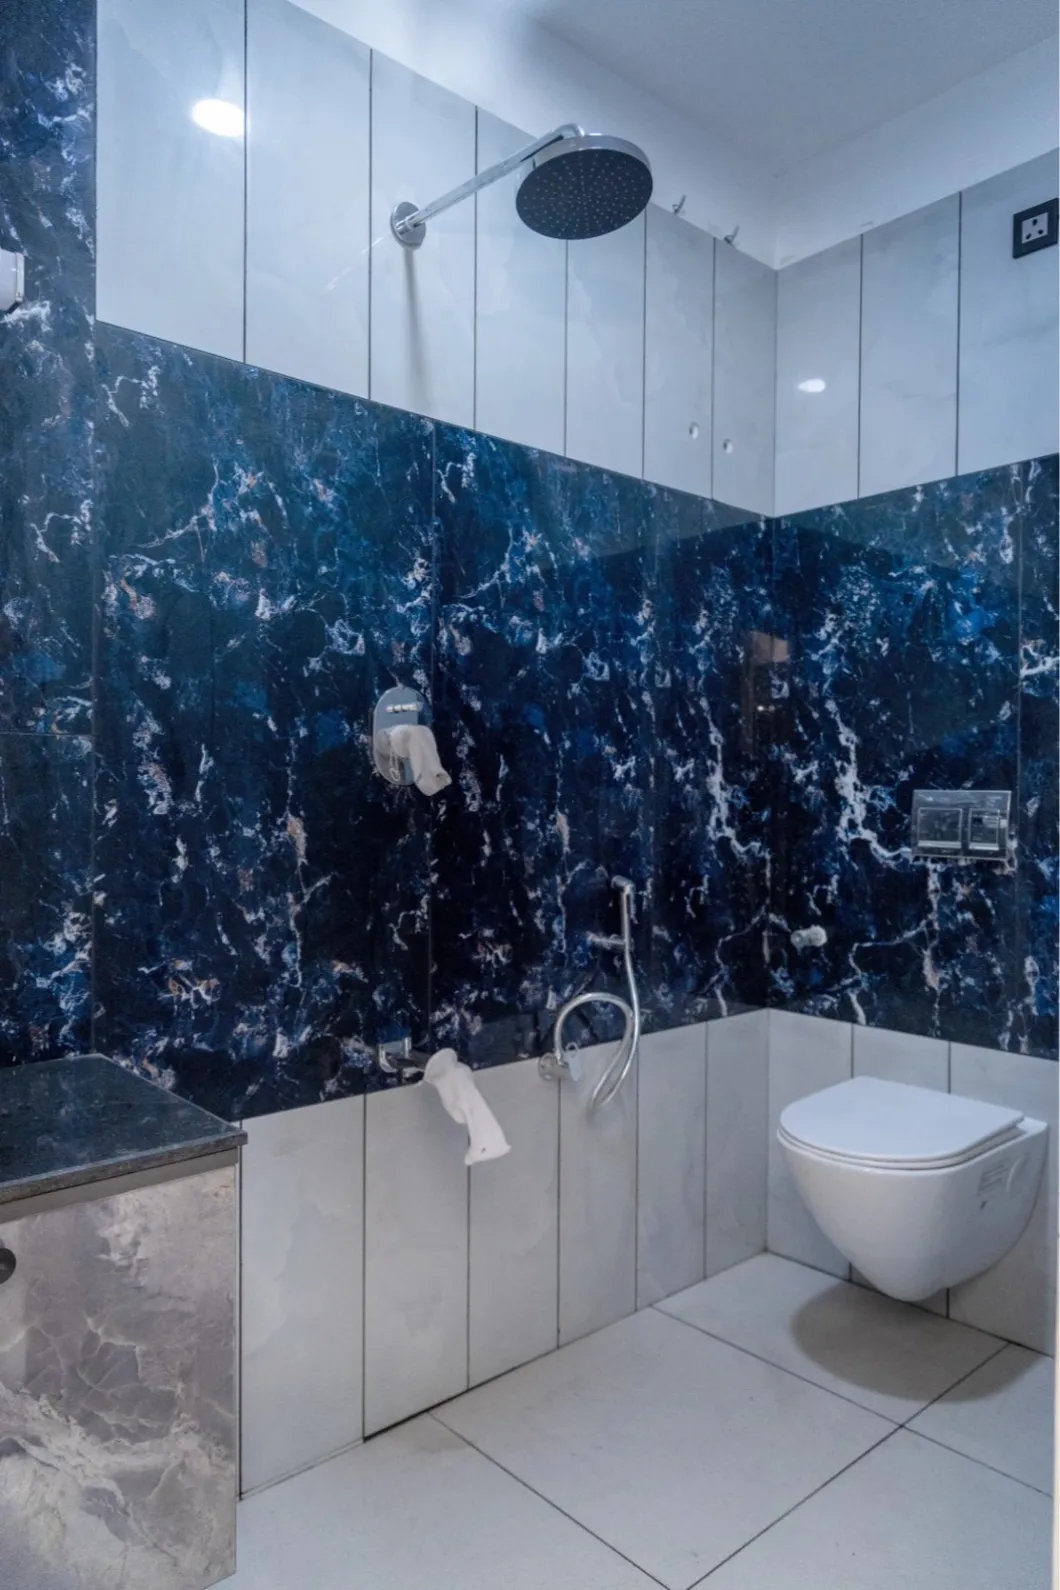
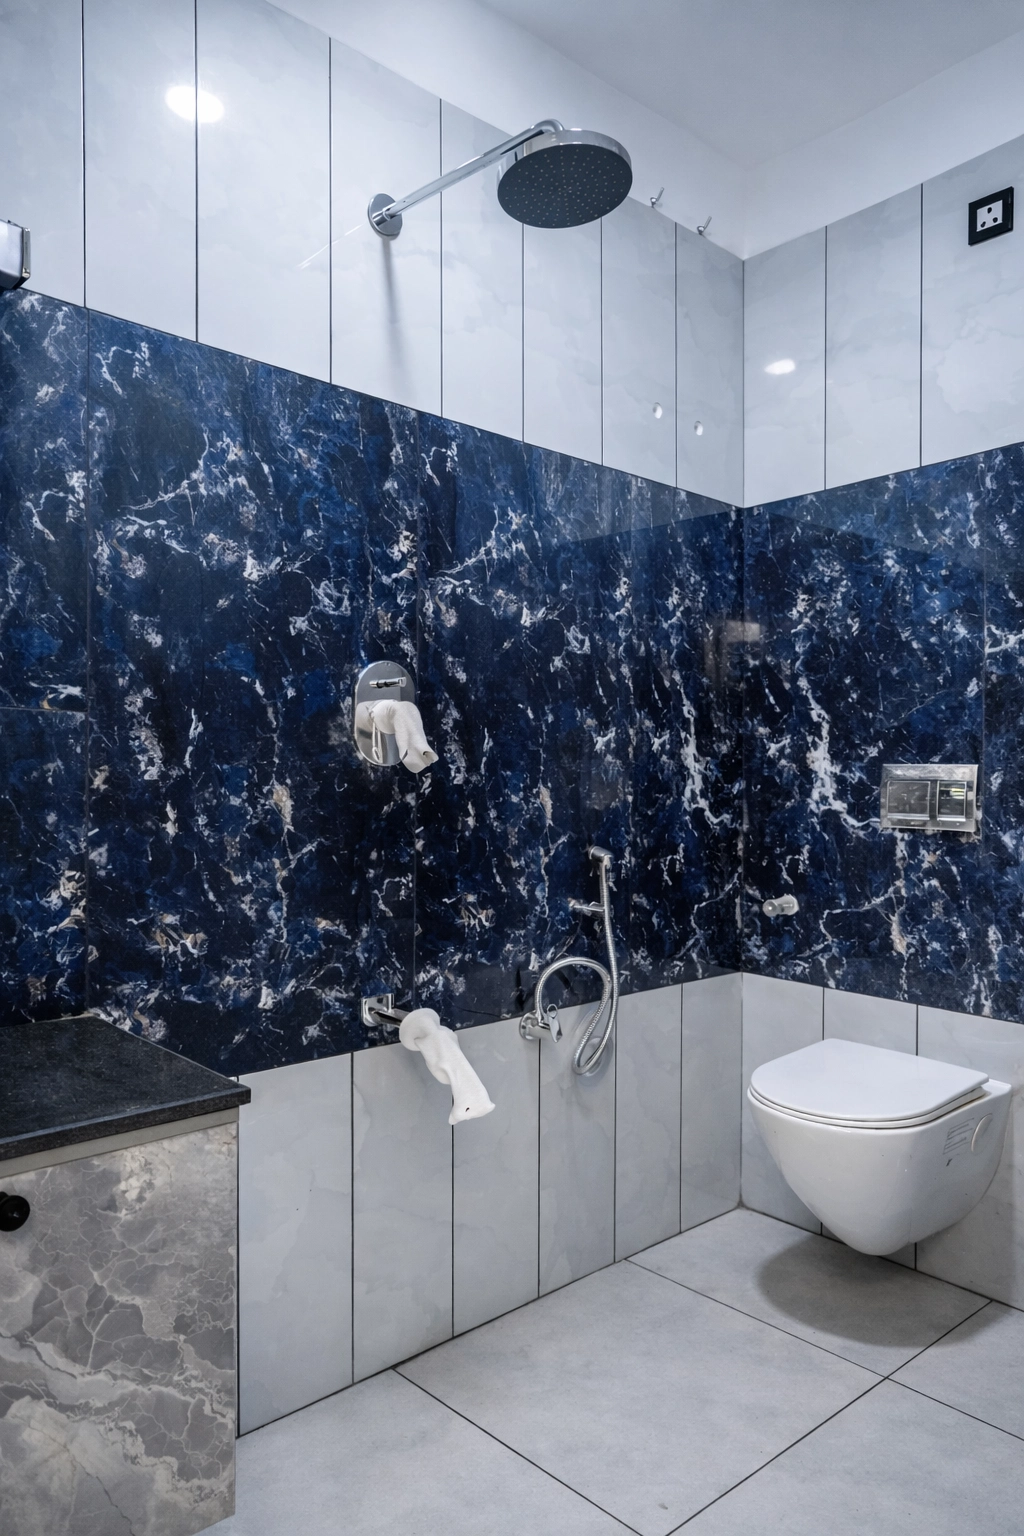
Add filled thumbnails for apartments in WEBP format
- Introduced new thumbnail images for apartments, enhancing the gallery section.
- Added files: thumb_pic1_filled.webp, thumb_pic2_filled.webp, thumb_pic3_filled.webp, thumb_pic5_filled.webp, thumb_pic6_filled.webp, thumb_pic7_filled.webp, thumb_pic8_filled.webp, thumb_pic9_filled.webp, thumb_pic11_filled.webp.

diff --git a/address.html b/address.html
@@ -393,28 +393,28 @@
                                         >
                                     </button>
                                     <button class="address-gallery__thumb" type="button"
-                                        data-large-src="assets/gallery/apartments/pic1.webp"
+                                        data-large-src="assets/gallery/apartments/pic1_filled.webp"
                                         aria-label="View apartment living room design 1">
                                         <img
-                                            src="assets/gallery/apartments/thumb_pic1.webp"
+                                            src="assets/gallery/apartments/thumb_pic1_filled.webp"
                                             alt="Apartment living room design 1 thumbnail"
                                             width="120" height="90" loading="lazy"
                                         >
                                     </button>
                                     <button class="address-gallery__thumb" type="button"
-                                        data-large-src="assets/gallery/apartments/pic2_1.webp"
+                                        data-large-src="assets/gallery/apartments/pic2_filled.webp"
                                         aria-label="View apartment living room design 2">
                                         <img
-                                            src="assets/gallery/apartments/thumb_pic2_1.webp"
+                                            src="assets/gallery/apartments/thumb_pic2_filled.webp"
                                             alt="Apartment living room design 2 thumbnail"
                                             width="120" height="90" loading="lazy"
                                         >
                                     </button>
                                     <button class="address-gallery__thumb" type="button"
-                                        data-large-src="assets/gallery/apartments/pic3.webp"
+                                        data-large-src="assets/gallery/apartments/pic3_filled.webp"
                                         aria-label="View apartment living room design 3">
                                         <img
-                                            src="assets/gallery/apartments/thumb_pic3.webp"
+                                            src="assets/gallery/apartments/thumb_pic3_filled.webp"
                                             alt="Apartment living room design 3 thumbnail"
                                             width="120" height="90" loading="lazy"
                                         >
@@ -429,64 +429,64 @@
                                         >
                                     </button>
                                     <button class="address-gallery__thumb" type="button"
-                                        data-large-src="assets/gallery/apartments/pic5.webp"
+                                        data-large-src="assets/gallery/apartments/pic5_filled.webp"
                                         aria-label="View apartment dining room design 2">
                                         <img
-                                            src="assets/gallery/apartments/thumb_pic5.webp"
+                                            src="assets/gallery/apartments/thumb_pic5_filled.webp"
                                             alt="Apartment dining room design 2 thumbnail"
                                             width="120" height="90" loading="lazy"
                                         >
                                     </button>
                                     <button class="address-gallery__thumb" type="button"
-                                        data-large-src="assets/gallery/apartments/pic6.webp"
+                                        data-large-src="assets/gallery/apartments/pic6_filled.webp"
                                         aria-label="View apartment dining room design 3">
                                         <img
-                                            src="assets/gallery/apartments/thumb_pic6.webp"
+                                            src="assets/gallery/apartments/thumb_pic6_filled.webp"
                                             alt="Apartment dining room design 3 thumbnail"
                                             width="120" height="90" loading="lazy"
                                         >
                                     </button>
                                     <button class="address-gallery__thumb" type="button"
-                                        data-large-src="assets/gallery/apartments/pic7_1.webp"
+                                        data-large-src="assets/gallery/apartments/pic7_filled.webp"
                                         aria-label="View apartment kitchen design">
                                         <img
-                                            src="assets/gallery/apartments/thumb_pic7_1.webp"
+                                            src="assets/gallery/apartments/thumb_pic7_filled.webp"
                                             alt="Apartment kitchen thumbnail"
                                             width="120" height="90" loading="lazy"
                                         >
                                     </button>
                                     <button class="address-gallery__thumb" type="button"
-                                        data-large-src="assets/gallery/apartments/pic8.webp"
+                                        data-large-src="assets/gallery/apartments/pic8_filled.webp"
                                         aria-label="View apartment bedroom design 1">
                                         <img
-                                            src="assets/gallery/apartments/thumb_pic8.webp"
+                                            src="assets/gallery/apartments/thumb_pic8_filled.webp"
                                             alt="Apartment bedroom design 1 thumbnail"
                                             width="120" height="90" loading="lazy"
                                         >
                                     </button>
                                     <button class="address-gallery__thumb" type="button"
-                                        data-large-src="assets/gallery/apartments/pic9.webp"
+                                        data-large-src="assets/gallery/apartments/pic9_filled.webp"
                                         aria-label="View apartment bedroom design 2">
                                         <img
-                                            src="assets/gallery/apartments/thumb_pic9.webp"
+                                            src="assets/gallery/apartments/thumb_pic9_filled.webp"
                                             alt="Apartment bedroom design 2 thumbnail"
                                             width="120" height="90" loading="lazy"
                                         >
                                     </button>
                                     <button class="address-gallery__thumb" type="button"
-                                        data-large-src="assets/gallery/apartments/pic10.webp"
+                                        data-large-src="assets/gallery/apartments/pic10_filled.webp"
                                         aria-label="View apartment bedroom design 3">
                                         <img
-                                            src="assets/gallery/apartments/thumb_pic10.webp"
+                                            src="assets/gallery/apartments/thumb_pic10_filled.webp"
                                             alt="Apartment bedroom design 3 thumbnail"
                                             width="120" height="90" loading="lazy"
                                         >
                                     </button>
                                     <button class="address-gallery__thumb" type="button"
-                                        data-large-src="assets/gallery/apartments/pic11.webp"
+                                        data-large-src="assets/gallery/apartments/pic11_filled.webp"
                                         aria-label="View apartment bedroom design 4">
                                         <img
-                                            src="assets/gallery/apartments/thumb_pic11.webp"
+                                            src="assets/gallery/apartments/thumb_pic11_filled.webp"
                                             alt="Apartment bedroom design 4 thumbnail"
                                             width="120" height="90" loading="lazy"
                                         >
@@ -503,6 +503,7 @@
                                 </div>
                             </div>
                         </div>
+                        <p class="gallery-disclaimer" role="note">Images may include staged or digitally enhanced elements; final appearance may vary.</p>
                     </section>
                     </div>
 
@@ -1181,6 +1182,7 @@
                                 </button>
                             </div>
                         </div>
+                        <p class="gallery-disclaimer" role="note">Images may include staged or digitally enhanced elements; final appearance may vary.</p>
                     </section>
                     </div>
 

diff --git a/styles/address-page.css b/styles/address-page.css
@@ -983,6 +983,14 @@ body.quick-nav-open {
     filter: brightness(1.08);
 }
 
+/* Small muted disclosure shown under galleries */
+.gallery-disclaimer {
+    margin-top: 0.6rem;
+    font-size: 0.9rem;
+    color: var(--color-text-soft);
+    font-style: italic;
+}
+
 .address-gallery__thumbs:hover .address-gallery__thumb:not(.is-active) {
     opacity: 0.7;
 }
